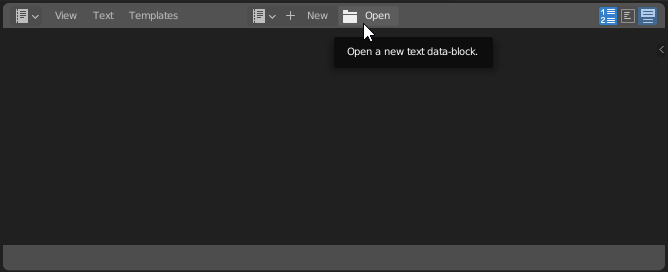
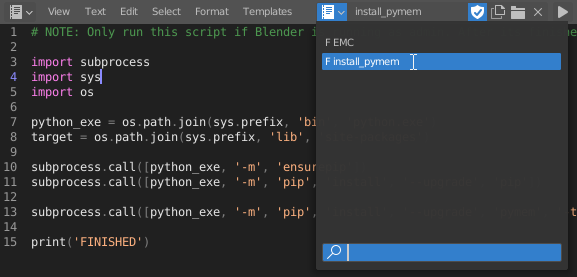
readme update

diff --git a/README.md b/README.md
@@ -8,7 +8,7 @@
 </div>
 
 # Description
-**EMC** is a Blender add-on that enables you to control various functions
+**EMC** is a Blender script that enables you to control various functions
 in Super Smash Bros. Melee and Dolphin directly from Blender. 
 
 It mainly focuses on camera controls, but it also allows you to
@@ -26,6 +26,9 @@ and effort and I would appreciate the tips!
 > * [Blender 3.3 LTS Portable](https://www.blender.org/download/lts/3-3/)
 > * [Slippi Launcher 2.7+](https://slippi.gg/)
 
+[!NOTE]
+It is important to install the version of Python that comes packaged with Blender.
+
 ## Installing Requirements
 Download the latest version of **EMC** from the 
 [releases](https://github.com/sadkellz/External-Melee-Camera/releases)
@@ -35,67 +38,28 @@ page.
 > Download the Python installer for Windows, check the two boxes and click _'Install Now'._
 >![](imgs/Python_Installer.png)
 
+>## Blender
+> To get started, open the provided [emc_stages.blend](resources/emc_stages.blend) file. This Blender scene contains all the legal stages
+> in their own collections, to be used as reference when creating a camera animation.
+> 
 >### Pymem
 >To install **Pymem**, run Blender as **administrator** and navigate to the scripting menu.
 >
 >![](imgs/Scripting_Menu.png)
 >
->Click open, and locate [_install_pymem.py_](resources/install_pymem.py)
+>Open the dropdown, and select `install_pymem`
 >
 >![](imgs/Scripting_Menu_2.png)
 >
->Once opened, run the script.
->
->![](imgs/Scripting_Menu_3.png)
-###
->### External Melee Camera
->Navigate to your Blender preferences by going to _'Edit > Preferences'_
->
->![](imgs/Preferences_Menu.png)
->
->Head to the _'Add-ons'_ tab and click _'Install...'_
->
->![](imgs/Install_Addon.png)
->
->Locate _External-Melee-Camera.zip_ and click _Install Add-on_
-> 
->![](imgs/Install_Addon_2.png)
-
-## Scene Setup
-> To get started, open the provided [emc_stages.blend](resources/emc_stages.blend) file. This Blender scene contains all the legal stages
-> in their own collections, to be used as reference when creating a camera animation.
-> 
+> Click the run button to run the script.
+> After its finished, close Blender and re-open as normal.
 > ### Control Panel
+> Open the same dropdown and select `EMC`, then run.
+> 
 > The control panel is located in the 3D View sidebar or can be accessed by the hotkey _'N'_.  
 >  _**NOTE: Dolphin must be running for the panel to appear!**_  
 > 
 > ![](imgs/Panel.png)
-> 
-> ### Descriptions
-> > ##### Sync Camera
-> > This feature allows you to control the camera in Super Smash Bros. Melee using Blender.  
-> > Press _**'Q'**_ to disable camera control.
-> 
-> > ##### Quick Save
-> > This creates a Dolphin save state. Will overwrite the oldest state.
-> 
-> > ##### Quick Load
-> > Loads the last saved state.
-> 
-> > ##### Image Sequence
-> > Loads the last state saved, and starts capturing screenshots in Dolphin for the duration of Blenders frame range.  
-> > Press _**spacebar**_ to cancel.   
-> > **_Note: Screenshot Directory must be set for this feature to work properly._**
-> 
-> > ##### Preview Sequence
-> > Will preview a sequence by loading the last state saved, and step through the frame range of Blender.
->
-> > ##### Sync Media Controls
-> > This function will toggle the play/pause state of Melee in sync with Blender's play/pause state.
-> 
-> > ##### Screenshot Directory
-> > This is where you set the directory of where Dolphin saves screenshots to.  
-> > `C:\Users\*your name*\AppData\Roaming\Slippi Launcher\playback\User\ScreenShots`
 
 ## Known Issues
 ### Could not read/write memory at: x, length: x - GetLastError: 5 or 299
